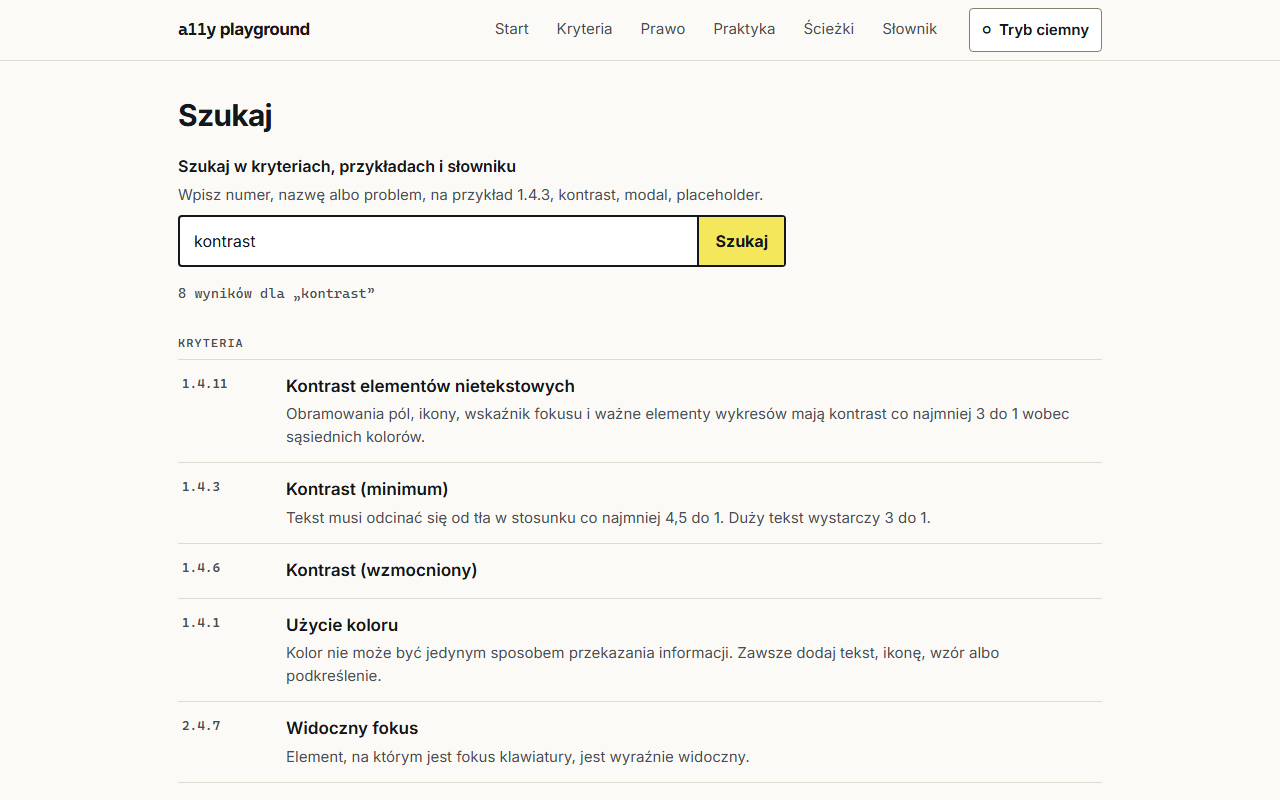
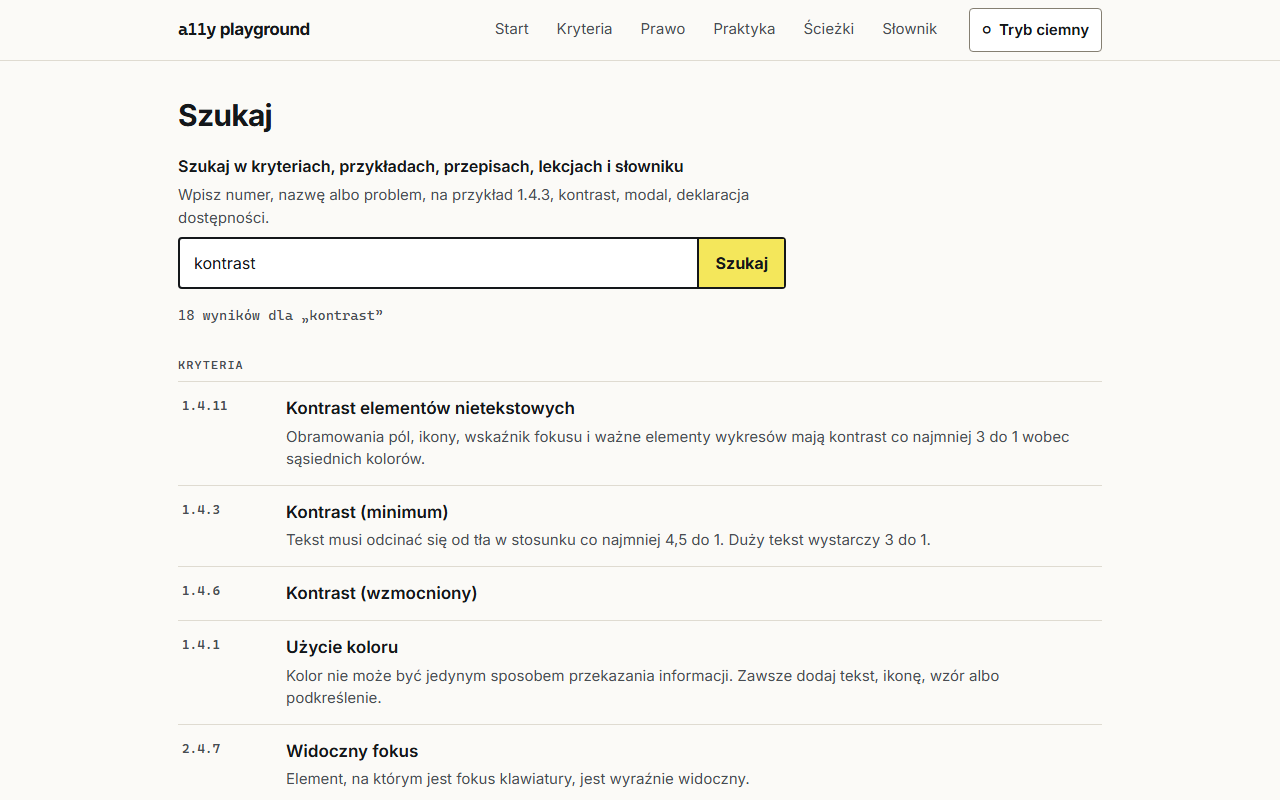
docs: update README for phase 6

diff --git a/README.md b/README.md
@@ -19,7 +19,7 @@ a11y playground is a learning app for people who build digital products in Polan
 The interface is in Polish. This README is in English.
 
 > [!NOTE]
-> The project is in phase 4 (legal module). Every A and AA criterion of WCAG 2.2 has a plain-language explanation, ten common faults have a broken and a fixed example side by side, and three Polish acts are in the app with the statute text and our summaries. All content is marked as a draft until a person has checked it. Ścieżki is a placeholder until a later phase.
+> The project is in phase 6 (paths and quizzes). Every A and AA criterion of WCAG 2.2 has a plain-language explanation, ten common faults have a broken and a fixed example side by side, three Polish acts are in the app with the statute text and our summaries, and five learning paths walk through them lesson by lesson. All content is marked as a draft until a person has checked it. Phase 5 (accounts) is postponed, so progress is kept in the browser.
 
 ### What works today
 
@@ -32,11 +32,14 @@ The interface is in Polish. This README is in English.
 - **Explanations** for all 55 A and AA criteria: who it affects, how to meet it by role, typical errors, how to test it, common confusions. Drafts carry a visible "szkic, czeka na weryfikację" badge.
 - **Normative text** in Polish from the authorized W3C translation of WCAG 2.1, collapsed on each criterion page. The criteria new in 2.2 link to their sources until a licensed Polish text is available.
 - **Glossary** (`/slownik`) of about 30 terms, alphabetical, each with a plain explanation and, where WCAG defines the term, its normative wording. The first use of a term in a criterion links to it, with a small button that opens a short definition.
-- **Search** (`/szukaj`, also on the home page) over criteria, examples, provisions and the glossary. It finds criteria by number, name or symptom ("modal", "placeholder"), articles by topic ("deklaracja dostępności"), and ignores Polish diacritics.
+- **Search** (`/szukaj`, also on the home page) over criteria, examples, provisions, lessons and the glossary. It finds criteria by number, name or symptom ("modal", "placeholder"), articles by topic ("deklaracja dostępności"), and ignores Polish diacritics.
 - **Practice** (`/praktyka`): ten examples as cards ordered by the cost of the fix, each with what the user gains. An example page (`/praktyka/ikona-jako-przycisk`) shows the broken and the fixed variant side by side, each running in a sandboxed iframe, with its code and what a screen reader says. Examples that move start only when the reader asks. Criterion pages link to their examples.
 - **Law** (`/prawo`): the 2019 digital accessibility act in full, the parts of the 2019 special needs act and the 2024 products and services act (the Polish EAA) that create digital obligations, and a page on EN 301 549. An article page (`/prawo/ustawa-2019-848/art-5`) shows each ustęp next to our summary. Every act says which consolidated text it comes from, when it was downloaded, and whether it was amended after that text.
 - **What applies to me** (`/mapowanie`): pick a website or app of a public body, or a product or service of a company, and every deadline appears on one timeline, with the ones for your situation highlighted and the criteria behind them in a table.
 - **Law on criterion pages:** the "Prawo" section says, for each situation, whether a provision requires the criterion, which one, and since when, or why nothing does (AAA, new in 2.2, excluded for apps).
+- **Paths** (`/sciezki`): five ordered sets of lessons, for the developer, the designer, the content author, the tester, and the legal minimum for a public body. 29 lessons, each with a "Zapamiętaj" box, links to the criteria, examples and provisions it covers, and a quiz at the end. Paths are ungated: the quiz never blocks the next lesson. Criterion pages link to the lessons that teach them.
+- **Quizzes** show one question at a time. "Sprawdź" explains every option, right or wrong, and announces the verdict to screen readers without moving focus; "Następne pytanie" moves focus to the next question. The score shows at the end.
+- **Progress** (lessons marked done, the last quiz score) is stored in `localStorage` under one key, in the shape planned for the Convex tables, so accounts can import it later. `/sciezki` says so and offers "Wyczyść postęp". With storage blocked, progress lasts until the tab closes.
 
 | Light | Dark | Mobile |
 | --- | --- | --- |
@@ -53,6 +56,10 @@ The interface is in Polish. This README is in English.
 | Article page | What applies to me | Law on a criterion page |
 | --- | --- | --- |
 | ![Article 5 of the digital accessibility act, each ustęp next to its summary](docs/screenshots/law-article.png) | ![Deadlines on one timeline with the app of a public body picked](docs/screenshots/obligations.png) | ![The Prawo section of 1.4.3 as a table by situation](docs/screenshots/criterion-law.png) |
+
+| Paths | Path page | Lesson quiz |
+| --- | --- | --- |
+| ![Five paths with progress on the developer and designer paths](docs/screenshots/paths.png) | ![Developer path syllabus with three lessons done and quiz scores](docs/screenshots/path.png) | ![A checked quiz question with an explanation under every option](docs/screenshots/lesson-quiz.png) |
 
 | Glossary preview | Glossary | Search |
 | --- | --- | --- |
@@ -207,6 +214,50 @@ Strona i aplikacja muszą spełniać **wymagania z załącznika**.
 
 Which provision requires which criterion lives in `src/content/legal-map.ts`, typed against both the criterion and the article ids. A test checks that no act requires an AAA criterion or one new in 2.2.
 
+### Paths and quizzes
+
+One folder per path in `content/sciezki/<path>/`:
+
+```text
+content/sciezki/programista/
+  index.md                       the path: frontmatter and introduction
+  klawiatura-i-fokus.md          a lesson
+  klawiatura-i-fokus.quiz.yaml   its quiz
+```
+
+```markdown
+---
+title: Programista
+role: programista
+summary: Jak pisać kod, który działa z klawiaturą i czytnikiem ekranu.
+lessons: [semantyka-najpierw, nazwy-dostepne, klawiatura-i-fokus]
+status: szkic
+---
+Wstęp do ścieżki.
+```
+
+- `lessons` sets the reading order and must name every lesson file in the folder exactly once. `role` is one of the four roles and is left out on the legal minimum path.
+- A lesson has `title`, `summary`, `keep` (two to four lines for the "Zapamiętaj" box), `status`, and optional `criteria`, `examples` and `law` (article ids such as `ustawa-2019-848/art-10`). The body is Markdown with `##` headings and the same `slownik:` and `prawo:` links as elsewhere.
+
+```yaml
+- id: div-jako-przycisk
+  prompt: Które kryterium łamie ten kod?
+  code: |
+    <div class="btn" onclick="zapisz()">Zapisz</div>
+  options:
+    - criterion: "2.1.1"
+      correct: true
+      why: Div nie dostaje fokusu i nie reaguje na Enter ani spację.
+    - text: Żadne, to tylko styl
+      why: Bez myszy nie da się zapisać.
+```
+
+- A quiz has three to five questions. An option is either `text` or a `criterion`, whose number and Polish name come from the registry. Every option needs `why`, shown after checking.
+- One correct option makes a single-choice question with radio buttons, more than one makes a "select all that apply" question with checkboxes. There is no type field to keep in sync.
+- Quote option text that YAML would read as a number or contains `: `, for example `text: "42"`.
+
+Unknown criteria, examples or articles, a lesson missing from `lessons`, a missing quiz, or a question without a correct answer fail `pnpm test` and the build.
+
 ### Where the statute text comes from
 
 `pnpm import:legal` regenerates `src/content/legal.gen.ts` (acts and the article index) and `src/content/legal-text.gen.ts` (the text, server only) from the [Sejm ELI API](https://api.sejm.gov.pl/eli), the data behind ISAP. `scripts/import-legal.ts` pins the consolidated text each act is read from. When an act was amended after that text, the import warns and the act page says so. The annex to the 2019 act exists only as a PDF table, so it is transcribed by hand in `src/content/annex-2019-848.ts` and pinned by a test.
@@ -269,16 +320,18 @@ content/
   slownik/       one Markdown file per glossary term
   praktyka/      one folder per example: index.md, bad.html, good.html
   prawo/         one Markdown file per act: summaries and deadlines
+  sciezki/       one folder per learning path: lessons and their quizzes
 scripts/
   import-wcag.ts   generates src/content/wcag.gen.ts and wcag-text.gen.ts
   import-legal.ts  generates src/content/legal.gen.ts and legal-text.gen.ts
 src/
   content/       WCAG structure, acts and the legal mapping, Markdown parsing and validation, server functions
   search/        search options, index builder and relevance tests
+  progress/      reading progress and quiz scores in localStorage
   routes/        file-based routes (__root.tsx holds the layout)
-  components/    header, theme toggle, route announcer, badges, glossary previews, example frames and cards
+  components/    header, theme toggle, route announcer, badges, glossary previews, example frames and cards, the quiz
   styles.css     Tailwind setup, colour tokens, styles for rendered Markdown
-e2e/             Playwright tests: axe, target size, keyboard, example isolation
+e2e/             Playwright tests: axe, target size, keyboard, example isolation, a whole path from the keyboard
 docs/
   accessibility.md   the accessibility checklist
   design/            dated plans and mocks
@@ -294,7 +347,7 @@ The full plan, with content scope, architecture and risks, is in [`docs/design/2
 - [x] **2. Explanations.** Plain-language drafts for every A and AA criterion, normative text, glossary, search, role filter. Detailed plan: [`docs/design/2026-09-27-phase-2-content`](docs/design/2026-09-27-phase-2-content/phase-2-content.en.html).
 - [x] **3. Examples.** Ten bad and good examples in sandboxed iframes, the practice catalogue, and the home page built from it. Detailed plan: [`docs/design/2026-09-27-phase-3-examples`](docs/design/2026-09-27-phase-3-examples/phase-3-examples.en.html).
 - [x] **4. Legal module.** Three Polish acts with the statute text and summaries, EN 301 549, the law-to-criterion mapping, the obligations timeline. Detailed plan: [`docs/design/2026-09-28-phase-4-legal`](docs/design/2026-09-28-phase-4-legal/phase-4-legal.en.html).
-- [ ] **5. Accounts.** Optional progress, notes and bookmarks with Convex.
-- [ ] **6. Paths and quizzes.**
+- [ ] **5. Accounts.** Optional progress, notes and bookmarks with Convex. Postponed; phase 6 went first with progress in the browser.
+- [x] **6. Paths and quizzes.** Five learning paths, 29 lessons with quizzes, progress in `localStorage`. Detailed plan: [`docs/design/2026-09-29-phase-6-paths`](docs/design/2026-09-29-phase-6-paths/phase-6-paths.en.html).
 - [ ] **7. Impairment simulators.**
 - [ ] **8. AAA criteria and WCAG 3.0 tracking.**
